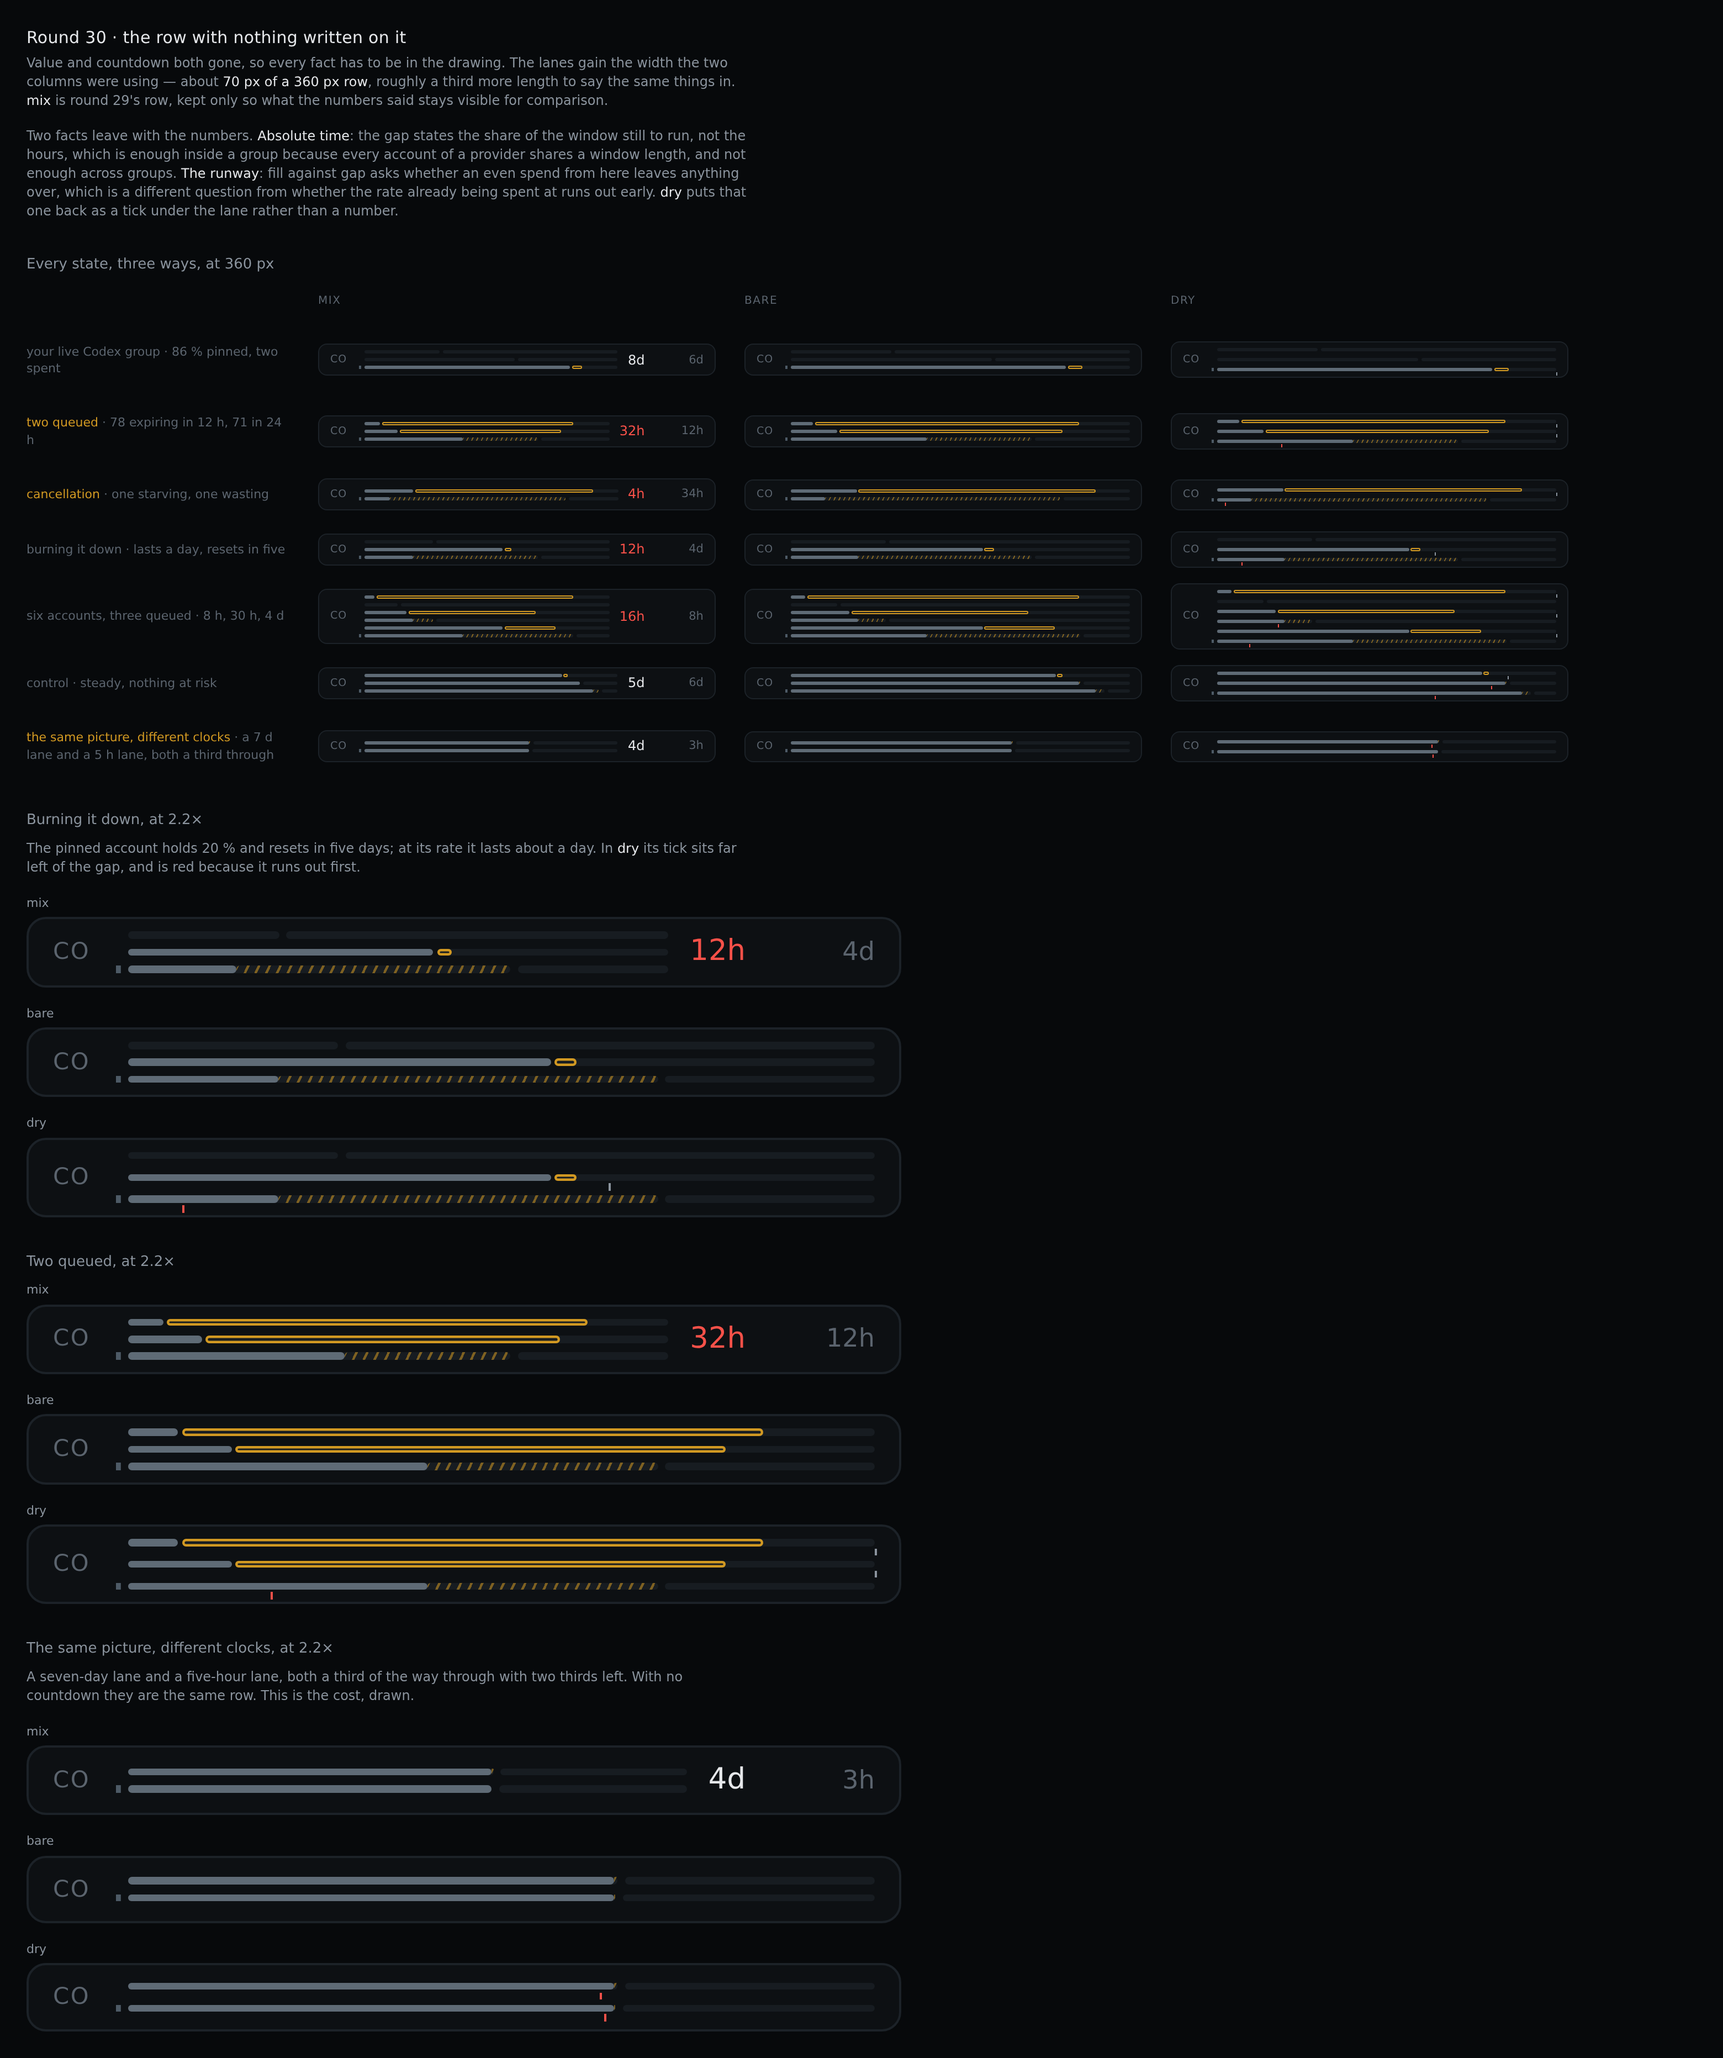
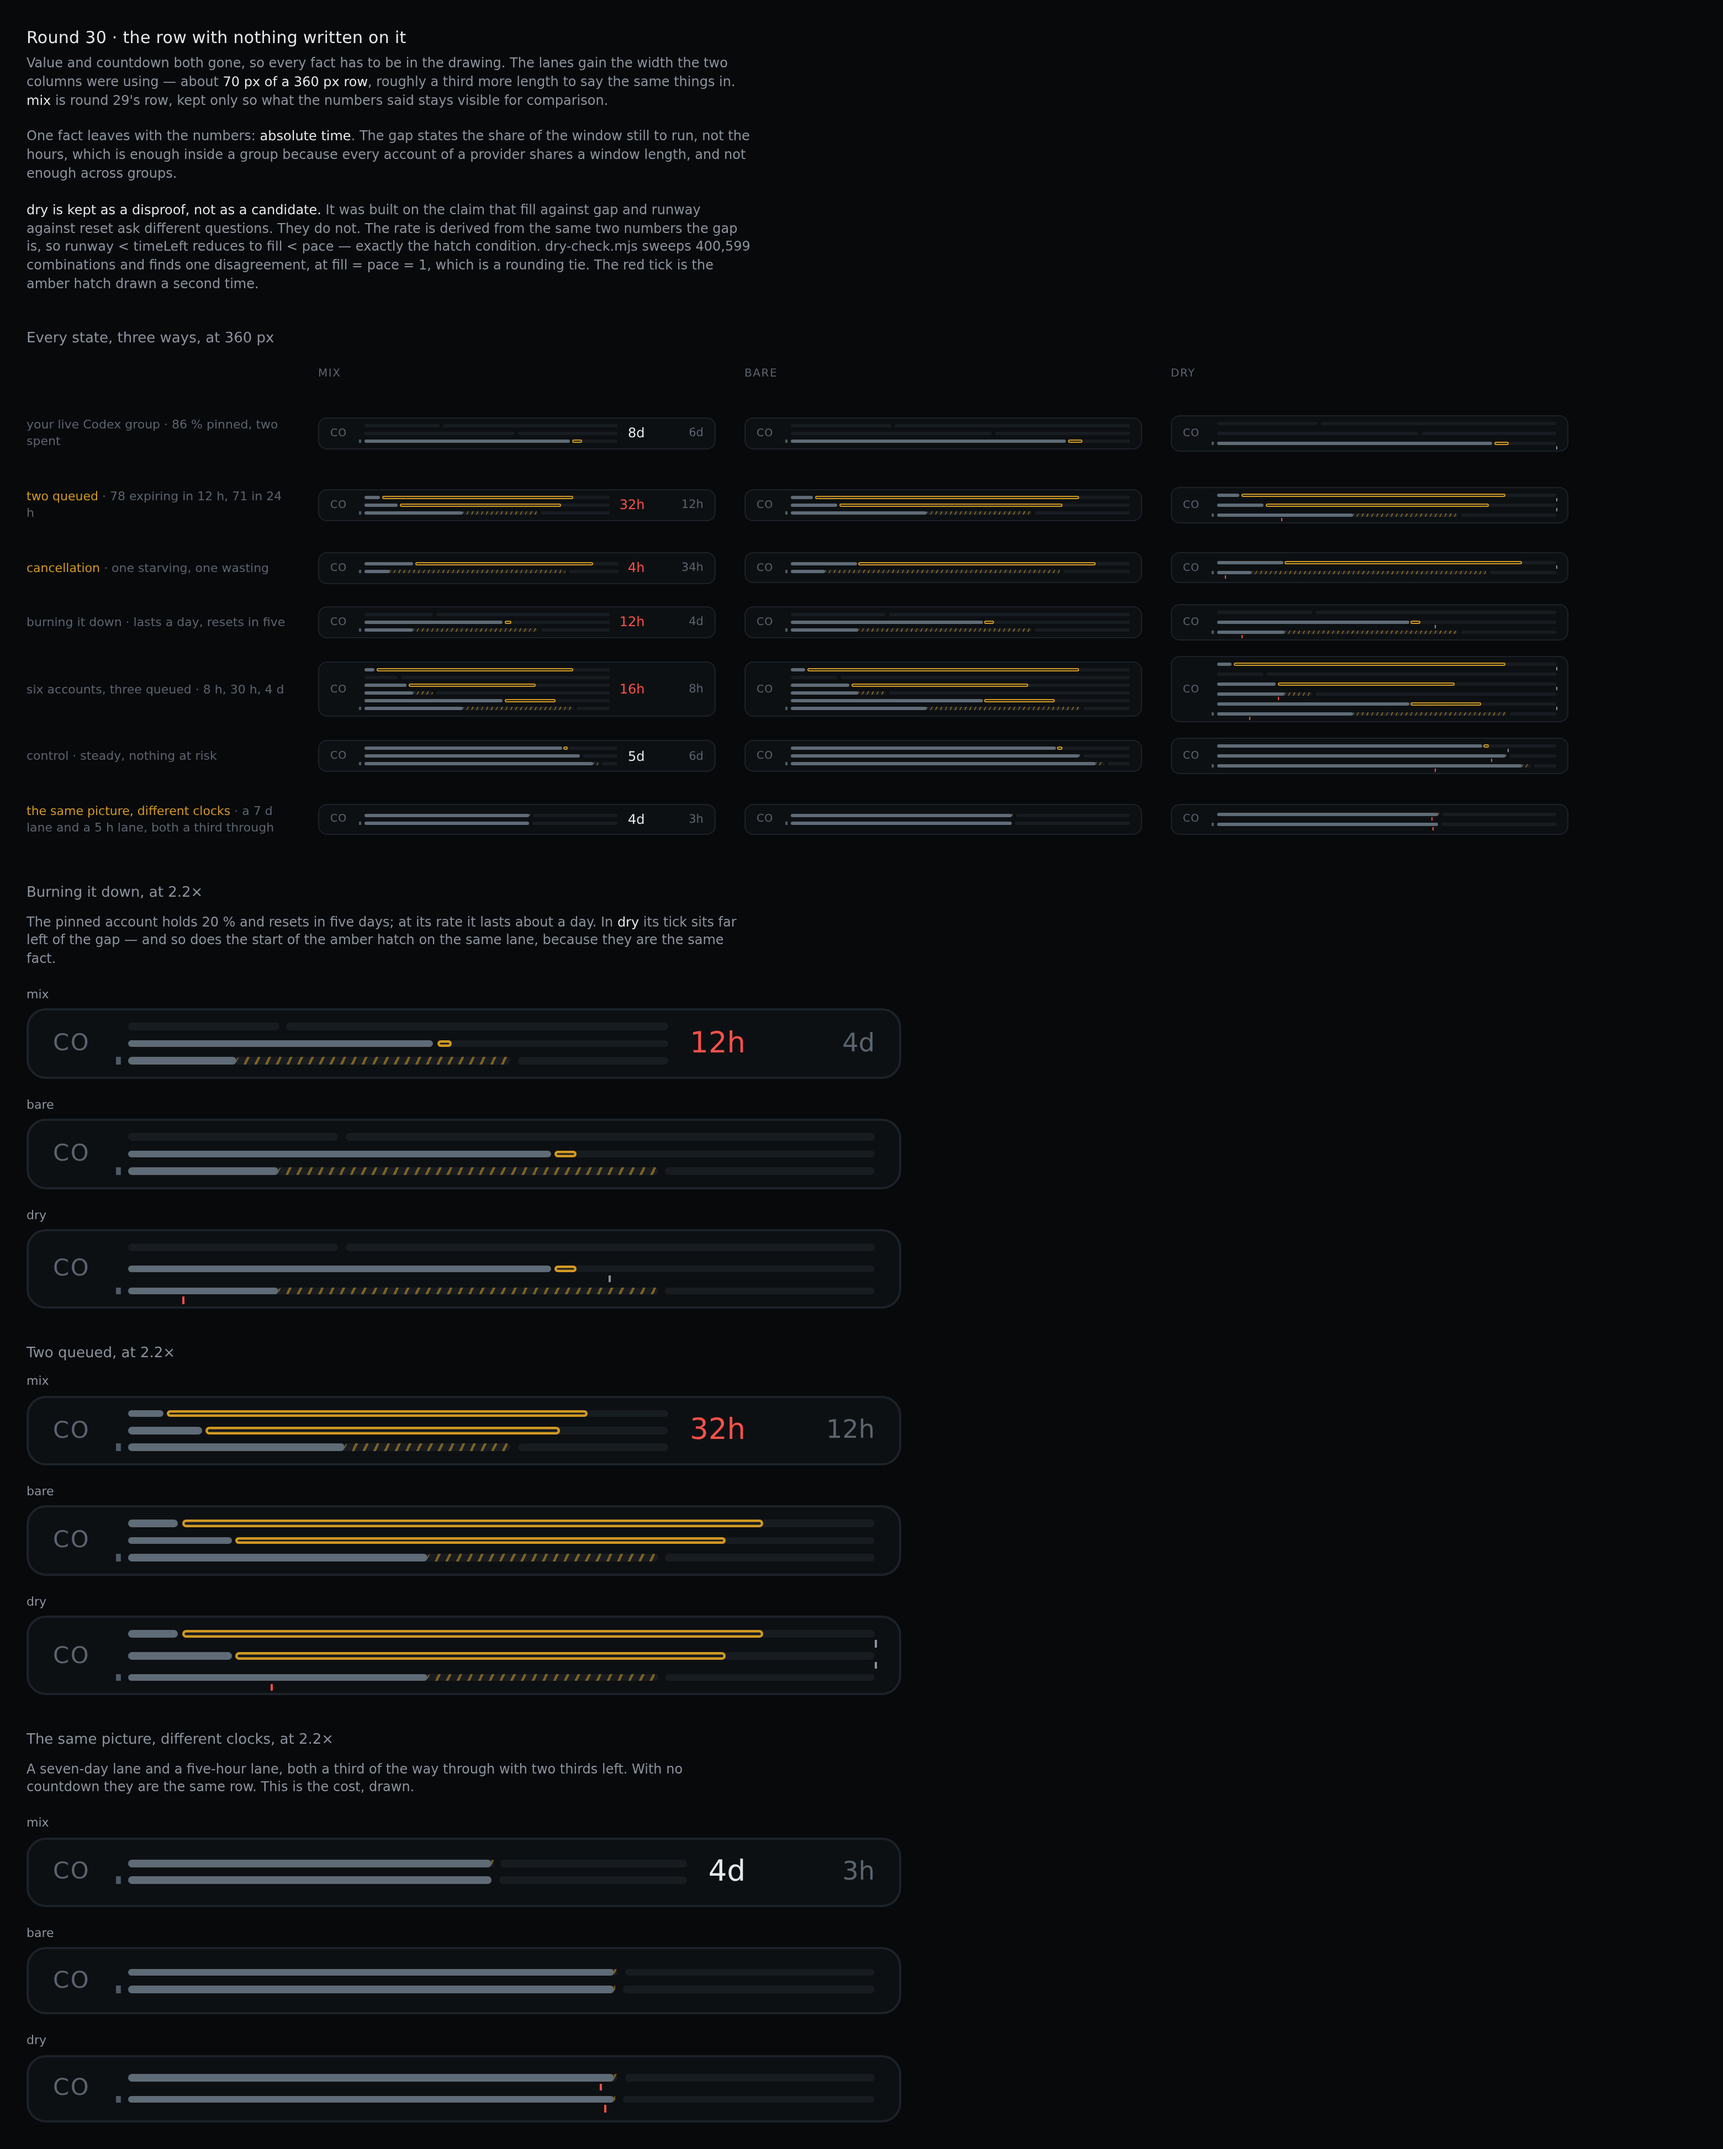
docs(prototypes): disprove the runway tick
Round 30 added a tick under each lane at the point the observed rate
exhausts the balance, on the claim that fill against cut and runway against
reset ask different questions. They do not.

The rate is derived from the same two numbers the cut is, so the condition
reduces:

    runway < timeLeft
    (W - L) * r / (100 - r) < L
    r * W < 100 * L
    r < 100 * L / W
    fill < pace

which is the hatch condition exactly. dry-check.mjs sweeps 400,599
combinations of level and elapsed window and finds a single disagreement,
at fill equal to pace equal to one, which is a rounding tie. The red tick
is the amber hatch drawn a second time.

No history reaches the shelf, so no rate estimate made from this payload
can carry anything the geometry does not already hold. What survives is the
runway as a number: hours are the one quantity a mark on a fraction axis
cannot express, which is the whole argument for keeping any text on the row.

dry stays in the page as the disproof rather than as a candidate.

diff --git a/prototypes/quota-shelf/round30.html b/prototypes/quota-shelf/round30.html
@@ -18,18 +18,22 @@
 <p class="note">Value and countdown both gone, so every fact has to be in the drawing. The lanes gain the width
 the two columns were using — about <b>70 px of a 360 px row</b>, roughly a third more length to say the same
 things in. <b>mix</b> is round 29's row, kept only so what the numbers said stays visible for comparison.</p>
-<p class="note">Two facts leave with the numbers. <b>Absolute time</b>: the gap states the share of the window
+<p class="note">One fact leaves with the numbers: <b>absolute time</b>. The gap states the share of the window
 still to run, not the hours, which is enough inside a group because every account of a provider shares a window
-length, and not enough across groups. <b>The runway</b>: fill against gap asks whether an even spend from here
-leaves anything over, which is a different question from whether the rate already being spent at runs out early.
-<b>dry</b> puts that one back as a tick under the lane rather than a number.</p>
+length, and not enough across groups.</p>
+<p class="note"><b>dry is kept as a disproof, not as a candidate.</b> It was built on the claim that fill against
+gap and runway against reset ask different questions. They do not. The rate is derived from the same two numbers
+the gap is, so <code>runway &lt; timeLeft</code> reduces to <code>fill &lt; pace</code> — exactly the hatch
+condition. <code>dry-check.mjs</code> sweeps 400,599 combinations and finds one disagreement, at fill = pace = 1,
+which is a rounding tie. The red tick is the amber hatch drawn a second time.</p>
 
 <h2>Every state, three ways, at 360 px</h2>
 <div class="matrix" id="matrix"></div>
 
 <h2>Burning it down, at 2.2×</h2>
 <p class="note">The pinned account holds 20 % and resets in five days; at its rate it lasts about a day. In
-<b>dry</b> its tick sits far left of the gap, and is red because it runs out first.</p>
+<b>dry</b> its tick sits far left of the gap — and so does the start of the amber hatch on the same lane, because
+they are the same fact.</p>
 <div class="zoom" id="zoom"></div>
 
 <h2>Two queued, at 2.2×</h2>

diff --git a/prototypes/quota-shelf/round30.js b/prototypes/quota-shelf/round30.js
@@ -15,15 +15,28 @@
  *                   are comparable. Across groups it is not: a five-hour lane
  *                   and a seven-day lane at the same cut mean an hour and a
  *                   day.
- *   the runway      fill against cut asks whether an even spend from here
- *                   leaves anything over. The runway asks whether the rate
- *                   already being spent at runs out early. Those are
- *                   different questions, and only the first is in the
- *                   geometry.
  *
- * `dry` puts the second one back as a mark rather than a number: a tick under
- * the lane at the point the observed rate exhausts the balance. Left of the
- * gap means running dry before the reset; right of it means leftovers. */
+ * `dry` was built on a second claim that turned out to be false, and is kept
+ * here as the disproof rather than as a candidate.
+ *
+ * The claim was that fill-against-cut and runway-against-reset ask different
+ * questions. They do not, because the rate is derived from the same two
+ * numbers the cut is:
+ *
+ *     runway < timeLeft
+ *     (W - L) * r / (100 - r) < L
+ *     r * W < 100 * L
+ *     r < 100 * L / W
+ *     fill < pace                        <- exactly the hatch condition
+ *
+ * `dry-check.mjs` sweeps 400,599 combinations and finds one disagreement, at
+ * fill = pace = 1, which is a rounding tie. So the tick is the hatch drawn
+ * twice. No history reaches the shelf, so no rate estimate made from the
+ * payload can carry anything the geometry does not already hold.
+ *
+ * What survives: the runway as a *number*. Hours are the one quantity a mark
+ * on a fraction axis cannot express, which is the whole argument for keeping
+ * any text on the row at all. */
 
 (() => {
   const DAY = 86_400_000;
